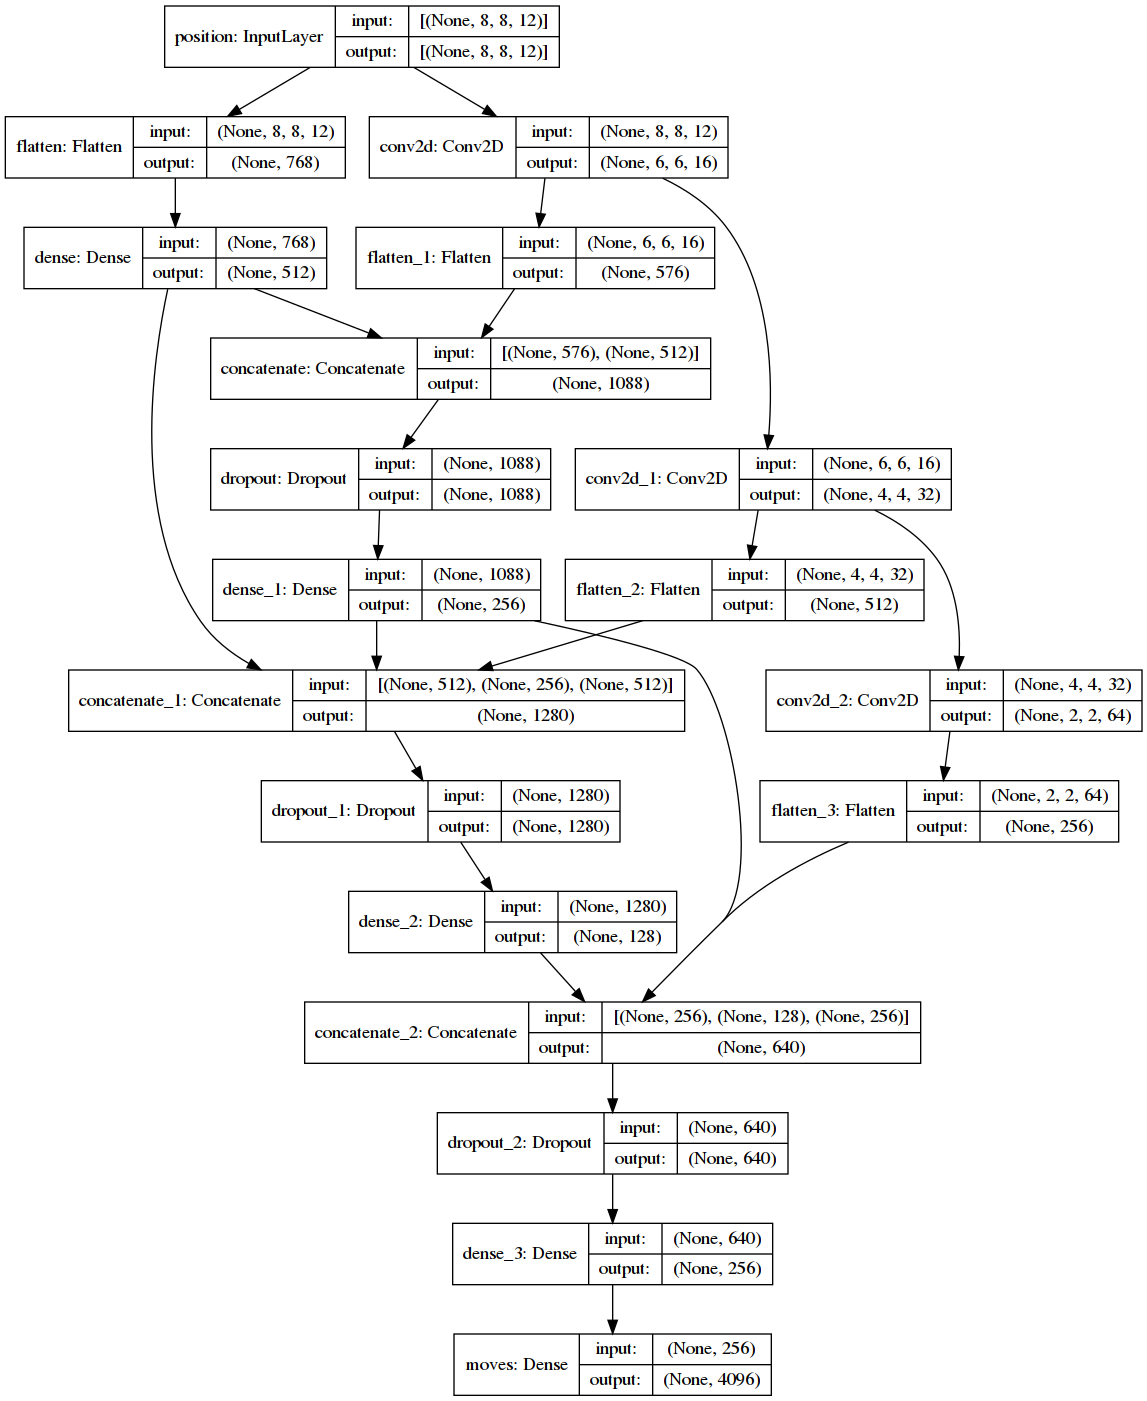
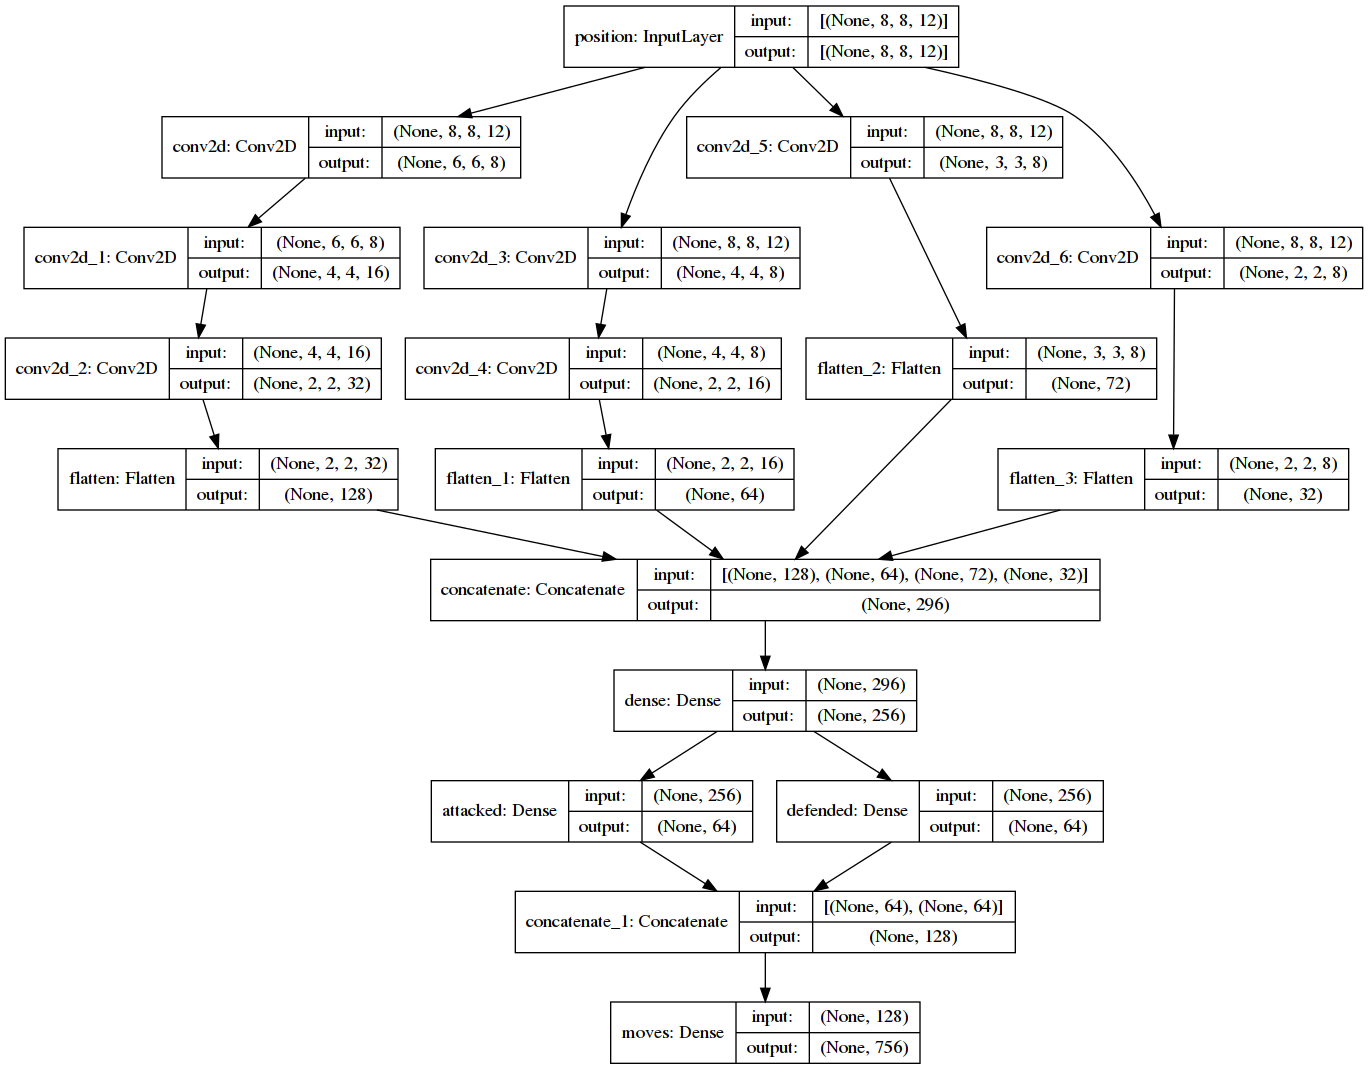
756 moves approach

Changed region(s): [[0.0, 0.0, 1.0, 1.0], [0.7018, 0.1852, 1.0, 0.2778]]

diff --git a/chessnn/nn.py b/chessnn/nn.py
@@ -10,7 +10,7 @@ import absl.logging
 import numpy as np
 from chess import PIECE_TYPES
 
-from chessnn import MoveRecord
+from chessnn import MoveRecord, MOVES_MAP
 
 # noinspection PyProtectedMember
 logging.root.removeHandler(absl.logging._absl_handler)
@@ -45,7 +45,7 @@ class NN(object):
     def inference(self, data):
         inputs, outputs = self._data_to_training_set(data, True)
         res = self._model.predict_on_batch(inputs)
-        return [x for x in res]
+        return [x[0] for x in res]
 
     def train(self, data, epochs, validation_data=None):
         logging.info("Preparing training set...")
@@ -90,18 +90,22 @@ optimizer = "nadam"  # sgd rmsprop adagrad adadelta adamax adam nadam
 
 class NNChess(NN):
     def _get_nn(self):
-
         pos_shape = (8, 8, len(PIECE_TYPES) * 2)
         position = layers.Input(shape=pos_shape, name="position")
-        # flags = layers.Input(shape=(1,), name="flags")
         main = self.__nn_conv(position)
-        out_moves = layers.Dense(4096, activation=activ_out, name="moves")(main)
-        # out_eval = layers.Dense(2, activation=activ_out, name="eval")(main)
 
-        model = models.Model(inputs=[position], outputs=[out_moves])  # , flags # , out_eval
+        # main = layers.Dense(64 * 2, activation="sigmoid", kernel_regularizer=reg)(main)
+
+        out_attacked = layers.Dense(64, activation=activ_out, name="attacked")(main)
+        out_defended = layers.Dense(64, activation=activ_out, name="defended")(main)
+
+        conc = layers.concatenate([out_attacked, out_defended])
+        out_moves = layers.Dense(len(MOVES_MAP), activation=activ_out, name="moves")(conc)
+
+        model = models.Model(inputs=[position], outputs=[out_moves, out_attacked, out_defended])
         model.compile(optimizer=optimizer,
                       loss="categorical_crossentropy",
-                      # loss_weights=[1.0, 0.1],
+                      loss_weights=[1.0, 0.5, 0.75],
                       metrics=['categorical_accuracy'])
         return model
 
@@ -133,49 +137,64 @@ class NNChess(NN):
         return branch
 
     def __nn_conv(self, position):
-        conv1 = layers.Conv2D(16, kernel_size=(3, 3), activation="relu", kernel_regularizer=reg)(position)
-        conv2 = layers.Conv2D(32, kernel_size=(3, 3), activation="relu", kernel_regularizer=reg)(conv1)
-        conv3 = layers.Conv2D(64, kernel_size=(3, 3), activation="relu", kernel_regularizer=reg)(conv2)
+        conv31 = layers.Conv2D(8, kernel_size=(3, 3), activation="relu", kernel_regularizer=reg)(position)
+        conv32 = layers.Conv2D(16, kernel_size=(3, 3), activation="relu", kernel_regularizer=reg)(conv31)
+        conv33 = layers.Conv2D(32, kernel_size=(3, 3), activation="relu", kernel_regularizer=reg)(conv32)
+        flat3 = layers.Flatten()(conv33)
 
-        flat = layers.Flatten()(position)
-        dense0 = layers.Dense(512, activation="sigmoid", kernel_regularizer=reg)(flat)
+        conv51 = layers.Conv2D(8, kernel_size=(5, 5), activation="relu", kernel_regularizer=reg)(position)
+        conv52 = layers.Conv2D(16, kernel_size=(3, 3), activation="relu", kernel_regularizer=reg)(conv51)
+        flat5 = layers.Flatten()(conv52)
 
-        main1 = layers.concatenate([layers.Flatten()(conv1), dense0])
-        main1 = layers.Dropout(0.1)(main1)
-        dense1 = layers.Dense(256, activation="sigmoid", kernel_regularizer=reg)(main1)
+        conv61 = layers.Conv2D(8, kernel_size=(6, 6), activation="relu", kernel_regularizer=reg)(position)
+        # conv62 = layers.Conv2D(16, kernel_size=(3, 3), activation="relu", kernel_regularizer=reg)(conv61)
+        flat6 = layers.Flatten()(conv61)
 
-        main2 = layers.concatenate([layers.Flatten()(conv2), dense1, dense0])
-        main2 = layers.Dropout(0.1)(main2)
-        dense2 = layers.Dense(128, activation="sigmoid", kernel_regularizer=reg)(main2)
+        conv71 = layers.Conv2D(8, kernel_size=(7, 7), activation="relu", kernel_regularizer=reg)(position)
+        # conv72 = layers.Conv2D(16, kernel_size=(3, 3), activation="relu", kernel_regularizer=reg)(conv71)
+        flat7 = layers.Flatten()(conv71)
 
-        main3 = layers.concatenate([layers.Flatten()(conv3), dense2, dense1])
-        main3 = layers.Dropout(0.1)(main3)
-        dense3 = layers.Dense(256, activation="sigmoid", kernel_regularizer=reg)(main3)
+        conc = layers.concatenate([flat3, flat5, flat6, flat7])
+        dense1 = layers.Dense(256, activation="sigmoid", kernel_regularizer=reg)(conc)
 
-        return dense3
+        # main2 = layers.concatenate([layers.Flatten()(conv2), flat1, dense0])
+        # dense2 = layers.Dense(128, activation="sigmoid", kernel_regularizer=reg)(main2)
+
+        # main3 = layers.concatenate([layers.Flatten()(conv3), dense2, flat1])
+        # main3 = layers.Dropout(0.1)(main3)
+        # dense3 = layers.Dense(256, activation="sigmoid", kernel_regularizer=reg)(main3)
+
+        # concat = layers.concatenate([dense3])
+        return dense1
 
     def _data_to_training_set(self, data, is_inference=False):
         batch_len = len(data)
 
         inputs_pos = np.full((batch_len, 8, 8, len(PIECE_TYPES) * 2), 0.0)
         inputs_flags = np.full((batch_len, 1), 0.0)
-        out_moves = np.full((batch_len, 4096), 0.0)
+        out_moves = np.full((batch_len, len(MOVES_MAP)), 0.0)
+        out_attacks = np.full((batch_len, 64), 0.0)
+        out_threats = np.full((batch_len, 64), 0.0)
         evals = np.full((batch_len, 2), 0.0)
 
         batch_n = 0
-        for move_rec in data:
-            assert isinstance(move_rec, MoveRecord)
+        for moverec in data:
+            assert isinstance(moverec, MoveRecord)
 
-            pos, evl, move = move_rec.position, move_rec.eval, move_rec.get_move_num()
+            pos, evl, move = moverec.position, moverec.eval, moverec.get_move_num()
 
-            evals[batch_n][0] = evl if evl is not None else 0.5
+            evals[batch_n][0] = evl
             evals[batch_n][1] = 1.0 - evals[batch_n][0]
             inputs_pos[batch_n] = pos
 
-            inputs_flags[batch_n][0] = move_rec.fifty_progress
+            inputs_flags[batch_n][0] = moverec.fifty_progress
 
             out_moves[batch_n][move] = evl
+            na = np.count_nonzero(moverec.attacked)
+            out_attacks[batch_n] = moverec.attacked / na if na else moverec.attacked
+            nt = np.count_nonzero(moverec.defended)
+            out_threats[batch_n] = moverec.defended / nt if nt else moverec.defended
 
             batch_n += 1
 
-        return [inputs_pos], [out_moves]  # , inputs_flags #  , evals
+        return [inputs_pos], [out_moves, out_attacks, out_threats]  # , inputs_flags #  , evals

diff --git a/chessnn/player.py b/chessnn/player.py
@@ -6,7 +6,7 @@ import chess
 import numpy as np
 from chess.engine import SimpleEngine, INFO_SCORE
 
-from chessnn import MoveRecord, BoardOptim, nn
+from chessnn import MoveRecord, BoardOptim, nn, is_debug, MOVES_MAP
 
 
 class PlayerBase(object):
@@ -33,19 +33,35 @@ class PlayerBase(object):
         moverec = self._get_moverec(move, geval, in_round)
         self._log_move(moverec)
         self.board.push(move)
-        logging.debug("%d. %r %.2f\n%s", self.board.fullmove_number, move.uci(), geval, self.board.unicode())
+        if is_debug():
+            logging.debug("%d. %r %.2f\n%s", self.board.fullmove_number, move.uci(), geval, self.board.unicode())
         not_over = move != chess.Move.null() and not self.board.is_game_over(claim_draw=False)
         return not_over
 
     def _get_moverec(self, move, geval, in_round):
-        pos = self.board.get_position() if self.color == chess.WHITE else self.board.mirror().get_position()
+        bflip = self.board if self.color == chess.WHITE else self.board.mirror()
+        pos = bflip.get_position()
         moveflip = move if self.color == chess.WHITE else self._mirror_move(move)
         piece = self.board.piece_at(move.from_square)
         piece_type = piece.piece_type if piece else None
         moverec = MoveRecord(pos, moveflip, self.board.halfmove_clock / 100.0, piece_type)
         moverec.from_round = in_round
         moverec.eval = geval
+
+        if self.color == chess.WHITE:
+            moverec.attacked = self.board.get_attacked()
+            moverec.defended = self.board.get_defended()
+        else:
+            moverec.attacked = bflip.get_attacked()
+            moverec.defended = bflip.get_defended()
+
         return moverec
+
+    def _flip64(self, array):
+        a64 = np.reshape(array, (8, 8))
+        a64flip = np.fliplr(a64)
+        res = np.reshape(a64flip, (64,))
+        return res
 
     def _log_move(self, moverec):
         if moverec.from_square != moverec.to_square:
@@ -85,14 +101,14 @@ class NNPLayer(PlayerBase):
     def _choose_best_move(self):
         pos = self.board.get_position() if self.color == chess.WHITE else self.board.mirror().get_position()
         moverec = MoveRecord(pos, chess.Move.null(), self.board.halfmove_clock / 100.0, None)
-        scores4096, = self.nn.inference([moverec])  # , geval
+        scores4096, _, _ = self.nn.inference([moverec])  # , geval
         geval = [0]
         return self._scores_to_move(scores4096), geval[0]
 
     def _scores_to_move(self, scores4096):
         cnt = 0
         for idx, score in sorted(enumerate(scores4096), key=lambda x: -x[1]):
-            move = chess.Move(idx // 64, idx % 64)
+            move = chess.Move(MOVES_MAP[idx][0], MOVES_MAP[idx][1])
             if self.color == chess.BLACK:
                 flipped = self._mirror_move(move)
                 move = flipped

diff --git a/chessnn/__init__.py b/chessnn/__init__.py
@@ -8,7 +8,7 @@ from collections import Counter
 import chess
 import numpy as np
 import xxhash
-from chess import pgn, square_file, square_rank
+from chess import pgn
 from matplotlib import pyplot
 
 mpl_logger = logging.getLogger('matplotlib')
@@ -164,11 +164,28 @@ class BoardOptim(chess.Board):
             channel = piece.piece_type - 1
             if piece.color:
                 channel += len(PIECE_VALUES)
-            pos[square_file(square)][square_rank(square)][channel] = 1
+            pos[chess.square_file(square)][chess.square_rank(square)][channel] = 1
 
         pos.flags.writeable = False
 
         return pos
+
+    def get_attacked(self):
+        """
+        Enemy squares that we do attack
+        """
+        our = self.occupied_co[self.turn]
+        their = self.occupied_co[not self.turn]
+
+        attacked = np.full(64, 0.0)
+        for move in self.generate_pseudo_legal_moves(our, their):
+            attacked[move.to_square] = 1.0
+
+        return attacked
+
+    def get_defended(self):
+        defended = np.full(64, 0.0)
+        return defended
 
     def _plot(board, matrix, position, fig, caption):
         """
@@ -183,8 +200,8 @@ class BoardOptim(chess.Board):
         img = fig.matshow(matrix)
 
         for square in chess.SQUARES:
-            f = square_file(square)
-            r = square_rank(square)
+            f = chess.square_file(square)
+            r = chess.square_rank(square)
 
             if any(position[int(chess.WHITE)][f][r]):
                 color = chess.WHITE
@@ -239,6 +256,9 @@ class MoveRecord(object):
         self.to_square = move.to_square
         self.from_square = move.from_square
 
+        self.attacked = None
+        self.defended = None
+
     def __str__(self) -> str:
         return json.dumps({x: y for x, y in self.__dict__.items() if x not in ('forced_eval', 'kpis')})
 
@@ -273,10 +293,31 @@ class MoveRecord(object):
 
     def get_move_num(self):
         if self.from_square == self.to_square:
-            return 0  # null move
+            return -1  # null move
 
-        return 64 * self.from_square + self.to_square
+        return MOVES_MAP.index((self.from_square, self.to_square))
 
 
 def is_debug():
     return 'pydevd' in sys.modules
+
+
+def _possible_moves():
+    res = set()
+    for f in range(64):
+        for t in chess.SquareSet(chess.BB_RANK_ATTACKS[f][chess.BB_RANK_MASKS[f]]):
+            res.add((f, t))
+
+        for t in chess.SquareSet(chess.BB_FILE_ATTACKS[f][chess.BB_FILE_MASKS[f]]):
+            res.add((f, t))
+
+        for t in chess.SquareSet(chess.BB_DIAG_ATTACKS[f][chess.BB_DIAG_MASKS[f]]):
+            res.add((f, t))
+
+        for t in chess.SquareSet(chess.BB_KNIGHT_ATTACKS[f]):
+            res.add((f, t))
+
+    return list(sorted(res))
+
+
+MOVES_MAP = _possible_moves()

diff --git a/training.py b/training.py
@@ -127,7 +127,8 @@ def play_with_score(pwhite, pblack):
         wmoves = pwhite.get_moves()
         bmoves = pblack.get_moves()
         good_moves = _fill_sets(result, wmoves, bmoves, losing, winning, draw)
-        # nn.train(good_moves, 1)
+        if good_moves:
+            nn.train(good_moves, 1)
         rnd += 1
 
 
@@ -184,8 +185,8 @@ if __name__ == "__main__":
 
     nn = NNChess("nn.hdf5")
     white = NNPLayer("Lisa", WHITE, nn)
-    # black = NNPLayer("Karen", BLACK, nn)
-    black = Stockfish(BLACK)
+    black = NNPLayer("Karen", BLACK, nn)
+    # black = Stockfish(BLACK)
 
     try:
         play_with_score(white, black)

diff --git a/README.md b/README.md
@@ -190,3 +190,7 @@ After good amount of training I see that accuracy converges to 0.5, which does n
 OMG, _it makes meaningful captures for the first time_! That happened after I changed learning process to "learn only from moves of winning side", which I decided to do after reading some articles about how to deal with negative samples, softmax, and milticlass outputs. Though training accuracy is now around ~0.25, I like the impact on moves that I got.
 
 As usual, I will leave it training versus SF for a night, maybe even for 48 hours. Let's see how it evolves. ... And after night of training it still converges into ~0.4 accuracy.
+
+### 3 Sep 2019
+
+Having short break from primary job, I implemented more efficient way to represent possible moves output from NN: it includes only moves that are theoretically possible on board. This limits output size from 4096 into 756 combinations, which serves well on dense type of layers.
